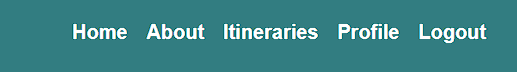
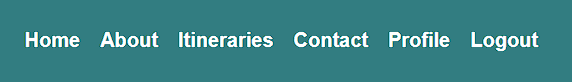
Add updated images to Readme document to reflect navbar changes

Changed region(s): [[0.0309, 0.3056, 0.9594, 0.6389]]

diff --git a/README.md b/README.md
@@ -53,10 +53,10 @@ All user stories can be found in a linked GitHub project [here](https://github.c
 
 - **Contact Page**
 
-    - Contact Page. Users can see contact information for the tennis club, including 
-    a contact email address and location information. An embedded Google Maps widget allows users to see the club's exact location.
+    - Contact Page. Users can see contact information for Trip-Easy, including 
+    a contact email address and location information. An embedded Google Maps widget allows users to see the business's exact location. There is also a form that can be filled out by users.
 
-![screenshot](documentation/features/sitepages/contact.png)
+![screenshot](documentation/features/sitepages/contactpage.png)
 
 - **Sign-up Page**
 
@@ -121,15 +121,10 @@ All user stories can be found in a linked GitHub project [here](https://github.c
 
 ![screenshot](documentation/features/user/logout.png)
 
-- **User Password Recovery**
-
-    - Users who have forgotten their password can recover their password via the forgot password link on the login page. Users will enter their email and get a password reset link sent to their account email which they can use to set a new password.
-
-![screenshot](documentation/features/user/password-recover.png)
 
 - **Login Dependant Navbar Links**
 
-    - Users who are logged in see new links in the navbar. 'Register' and 'Login' links are replaced with a 'Profile' link. This provides the user with visual feedback upon logging in, as well as removing links that they will not need.
+    - Users who are logged in see new links in the navbar. 'Sign Up' and 'Login' links are replaced with 'Profile' and 'Logout' links. This provides the user with visual feedback upon logging in, as well as removing links that they will not need.
 
 ![screenshot](documentation/features/user/navbefore.png)
 ![screenshot](documentation/features/user/navafter.png)
@@ -172,9 +167,12 @@ All user stories can be found in a linked GitHub project [here](https://github.c
 
 - Update Bookings
     - A user can edit their booking, without deleting it and creating a new one.
-- Advanced reservation actions for admins
-- Online Payment System
+- Advanced reservation actions for admins.
+- Online Payment System.
     - Users can pay the cost of their itinerary booking online.
+- Advanced itinerary actions for admins.
+    - Front end itinerary creation.
+    - Front end edit and delete functions.
 
 
 ## Tools & Technologies Used
@@ -196,8 +194,9 @@ All user stories can be found in a linked GitHub project [here](https://github.c
 - [Heroku](https://www.heroku.com) used for hosting the deployed site.
 - [Cloudinary](https://cloudinary.com) used for online static file storage.
 - [Cloud Convert](https://cloudconvert.com/webp-to-png) used for image processing.
-- [Gunicorn](https://gunicorn.org/) used for WSGI server
-- [sycopg2](https://pypi.org/project/psycopg2/) used as a PostgreSQL database adapter
+- [Gunicorn](https://gunicorn.org/) used for WSGI server.
+- [sycopg2](https://pypi.org/project/psycopg2/) used as a PostgreSQL database adapter.
+- [AmIResponsive](https://ui.dev/amiresponsive) used as a mock-up maker.
 
 ## Database Design
 
@@ -378,4 +377,4 @@ The local version, created on Gitpod, does not have the functionality to send co
 - I would like to thank my Code Institute cohort facilitator, Lewis Dillon for their support throughout the development of this project.
 - I would like to thank the [Code Institute](https://codeinstitute.net) tutor team for their assistance with troubleshooting and debugging some project issues.
 - I would like to thank the [Code Institute Slack community](https://code-institute-room.slack.com) and fellow students for the moral support.
-- I would like to thank my partner Ottilie for putting up with my countless hours sat on my laptop whilst visiting various countries on a travelling vacation.
+- I would like to thank my wife Ottilie for putting up with my countless hours sat on my laptop whilst visiting various countries on a travelling vacation.
